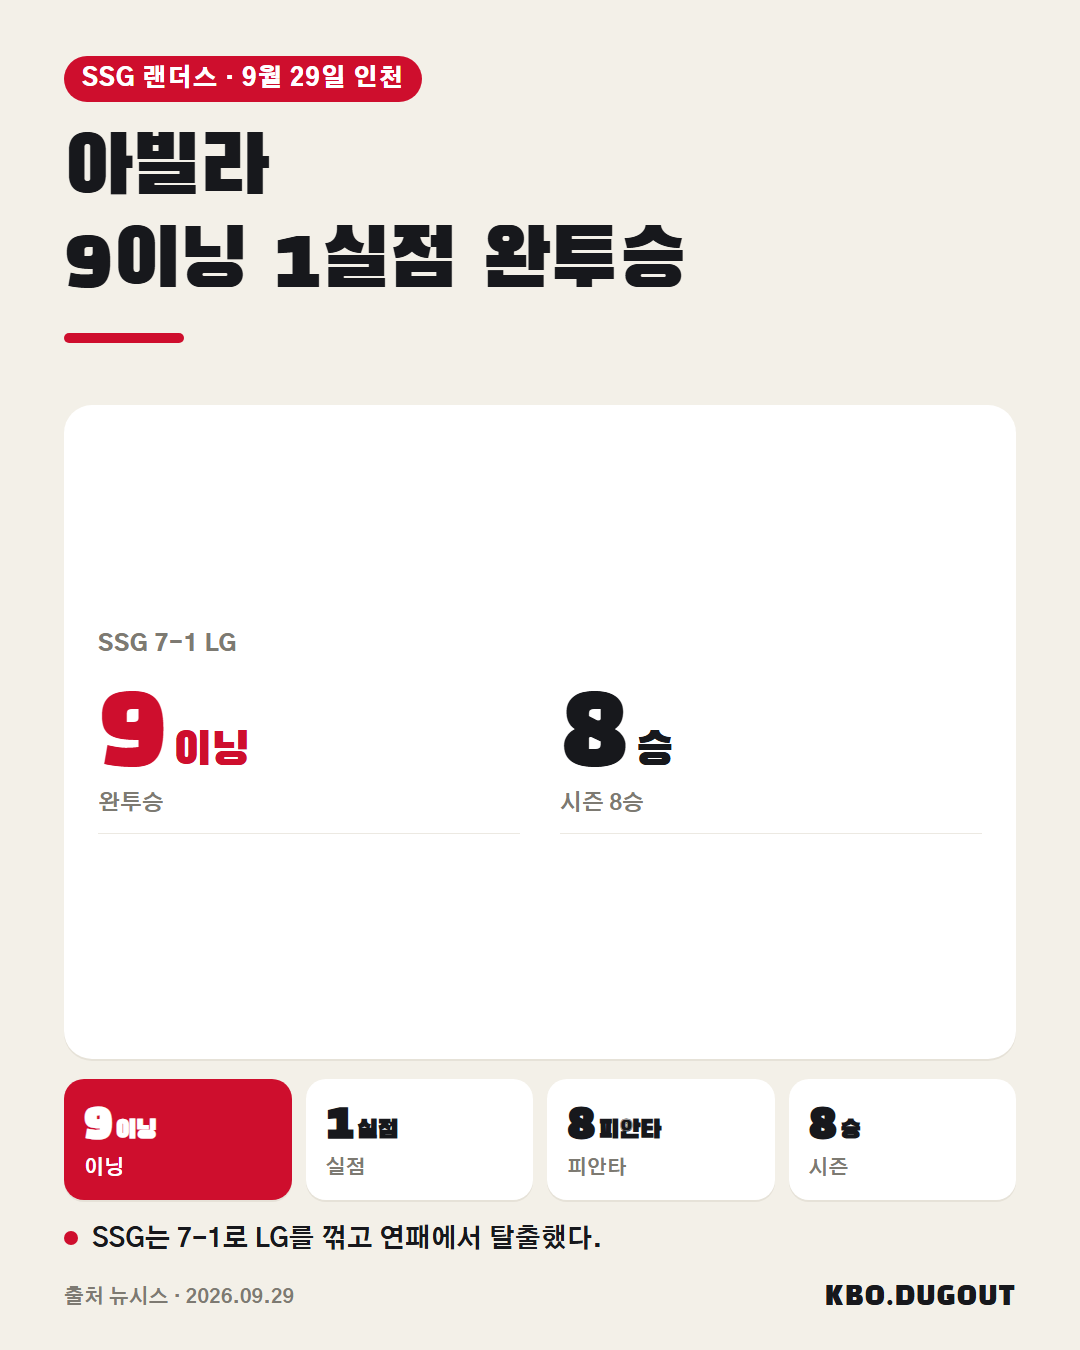
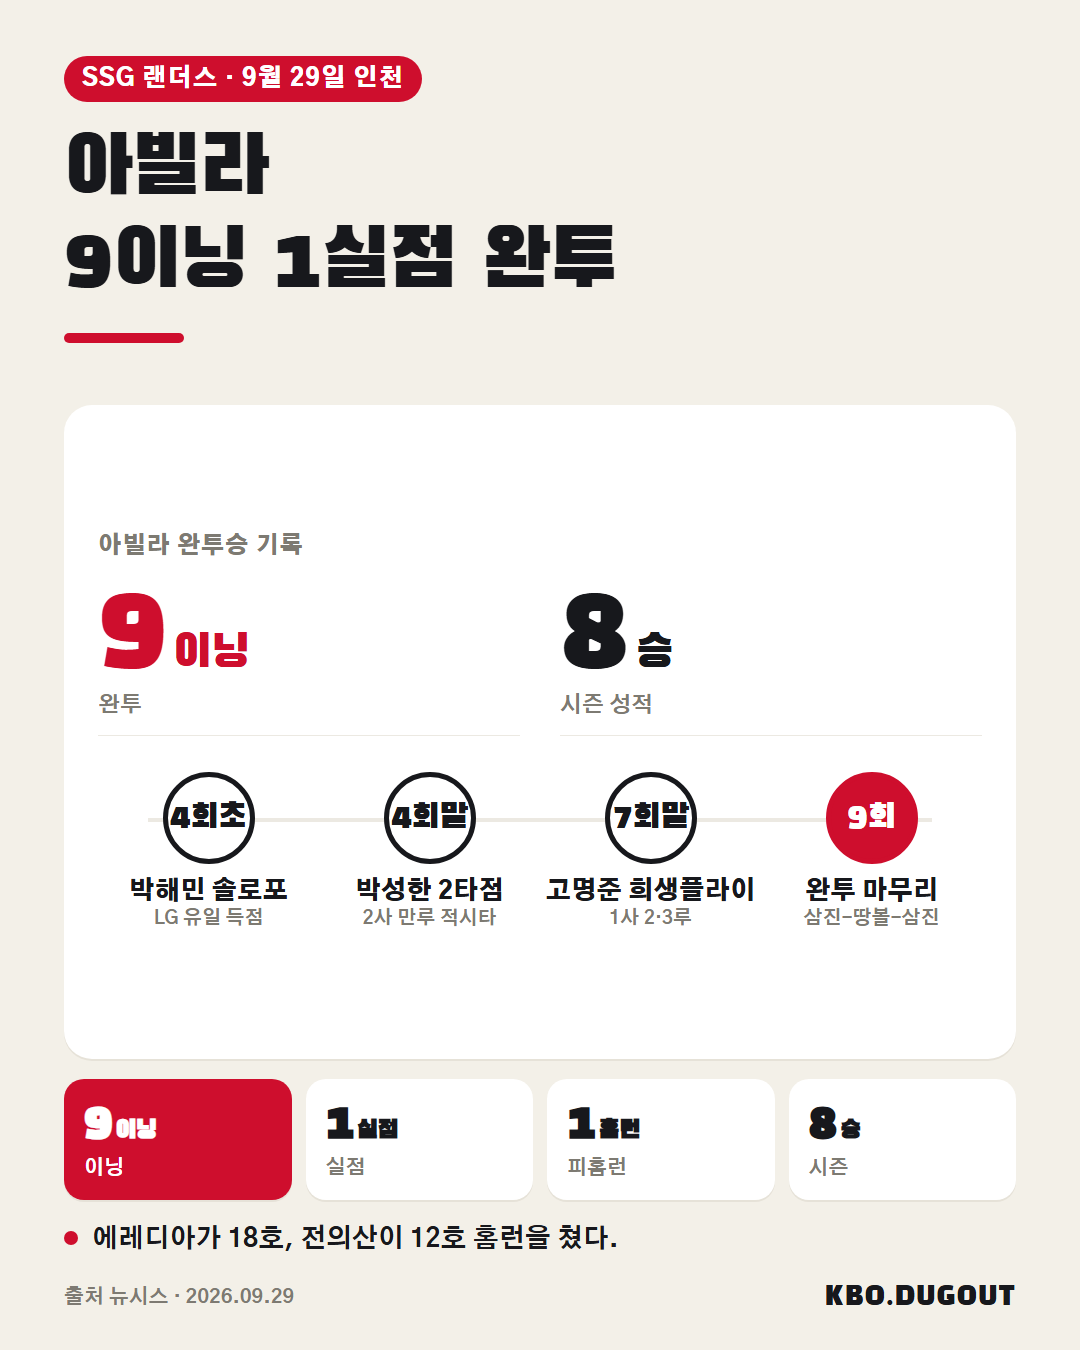
chore: publish review batch 68b0da329eb0

diff --git a/review/2026-09-29-68b0da329eb0.html b/review/2026-09-29-68b0da329eb0.html
@@ -1,0 +1,53 @@
+<!doctype html>
+<html lang="ko">
+<head>
+  <meta charset="utf-8">
+  <meta name="viewport" content="width=device-width, initial-scale=1">
+  <title>콘텐츠 검토</title>
+  <style>
+    * { box-sizing: border-box; }
+    body { margin: 0; background: #f3efe4; color: #182126; font-family: sans-serif; }
+    main { width: min(100%, 720px); margin: auto; padding: 24px 16px 48px; }
+    article { margin: 0 0 32px; padding-bottom: 32px; border-bottom: 1px solid #aaa397; }
+    .carousel { display: grid; gap: 12px; }
+    img { display: block; width: 100%; max-width: 100%; height: auto; }
+    .meta { color: #5f625e; font-size: .85rem; }
+    .body { white-space: pre-wrap; line-height: 1.65; }
+    .qa { padding: 12px; background: #e5ded0; }
+  </style>
+</head>
+<body><main><h1>콘텐츠 검토</h1><article>
+  <p class="meta">Draft #48</p>
+  <div class="carousel">
+
+  </div>
+  <p class="body">아빌라 오늘 진짜 미쳤다.. 9이닝 8안타 맞고도 1실점 완투ㅋㅋ 9회에 이재원 문성주 문정빈 삼진-땅볼-삼진으로 깔끔하게 마무리까지, 시즌 8승째</p>
+  <p class="qa"><strong>QA</strong> 출처에 없는 숫자</p>
+</article>
+<article>
+  <p class="meta">Draft #49</p>
+  <div class="carousel">
+    <img src="../cards/draft-49-01.png" alt="Draft #49 카드 1">
+  </div>
+  <p class="body">아빌라가 9이닝을 혼자 던져 1실점 완투승, 시즌 8승째를 채웠다. LG에 내준 유일한 점수는 4회 박해민의 솔로 홈런 하나였다. SSG는 이날 7-1 승리로 연패를 끊었다.
+#KBO #프로야구 #야구 #아빌라 #SSG랜더스</p>
+  <p class="qa"><strong>QA</strong> 출처에 없는 이름</p>
+</article>
+<article>
+  <p class="meta">Draft #50</p>
+  <div class="carousel">
+
+  </div>
+  <p class="body">아빌라가 9이닝 8피안타 1실점 완투승으로 시즌 8승(2패)째를 올렸다. 4회 박성한의 만루 적시타, 에레디아 시즌 18호·전의산 12호 홈런까지 더해지며 SSG는 7-1로 LG를 꺾고 연패를 끊었다.
+#KBO #프로야구 #야구 #아빌라 #SSG랜더스</p>
+  <p class="qa"><strong>QA</strong> 없음</p>
+</article>
+<article>
+  <p class="meta">Draft #51</p>
+  <div class="carousel">
+
+  </div>
+  <p class="body">0-5로 뒤지던 kt, 연장 10회에 3점 내면서 8-5로 뒤집었네.. 김도영은 아시안게임 복귀하자마자 41호 홈런.</p>
+  <p class="qa"><strong>QA</strong> 출처에 없는 숫자, 출처에 없는 이름, 출처와 사실이 다를 수 있음</p>
+</article></main></body>
+</html>
